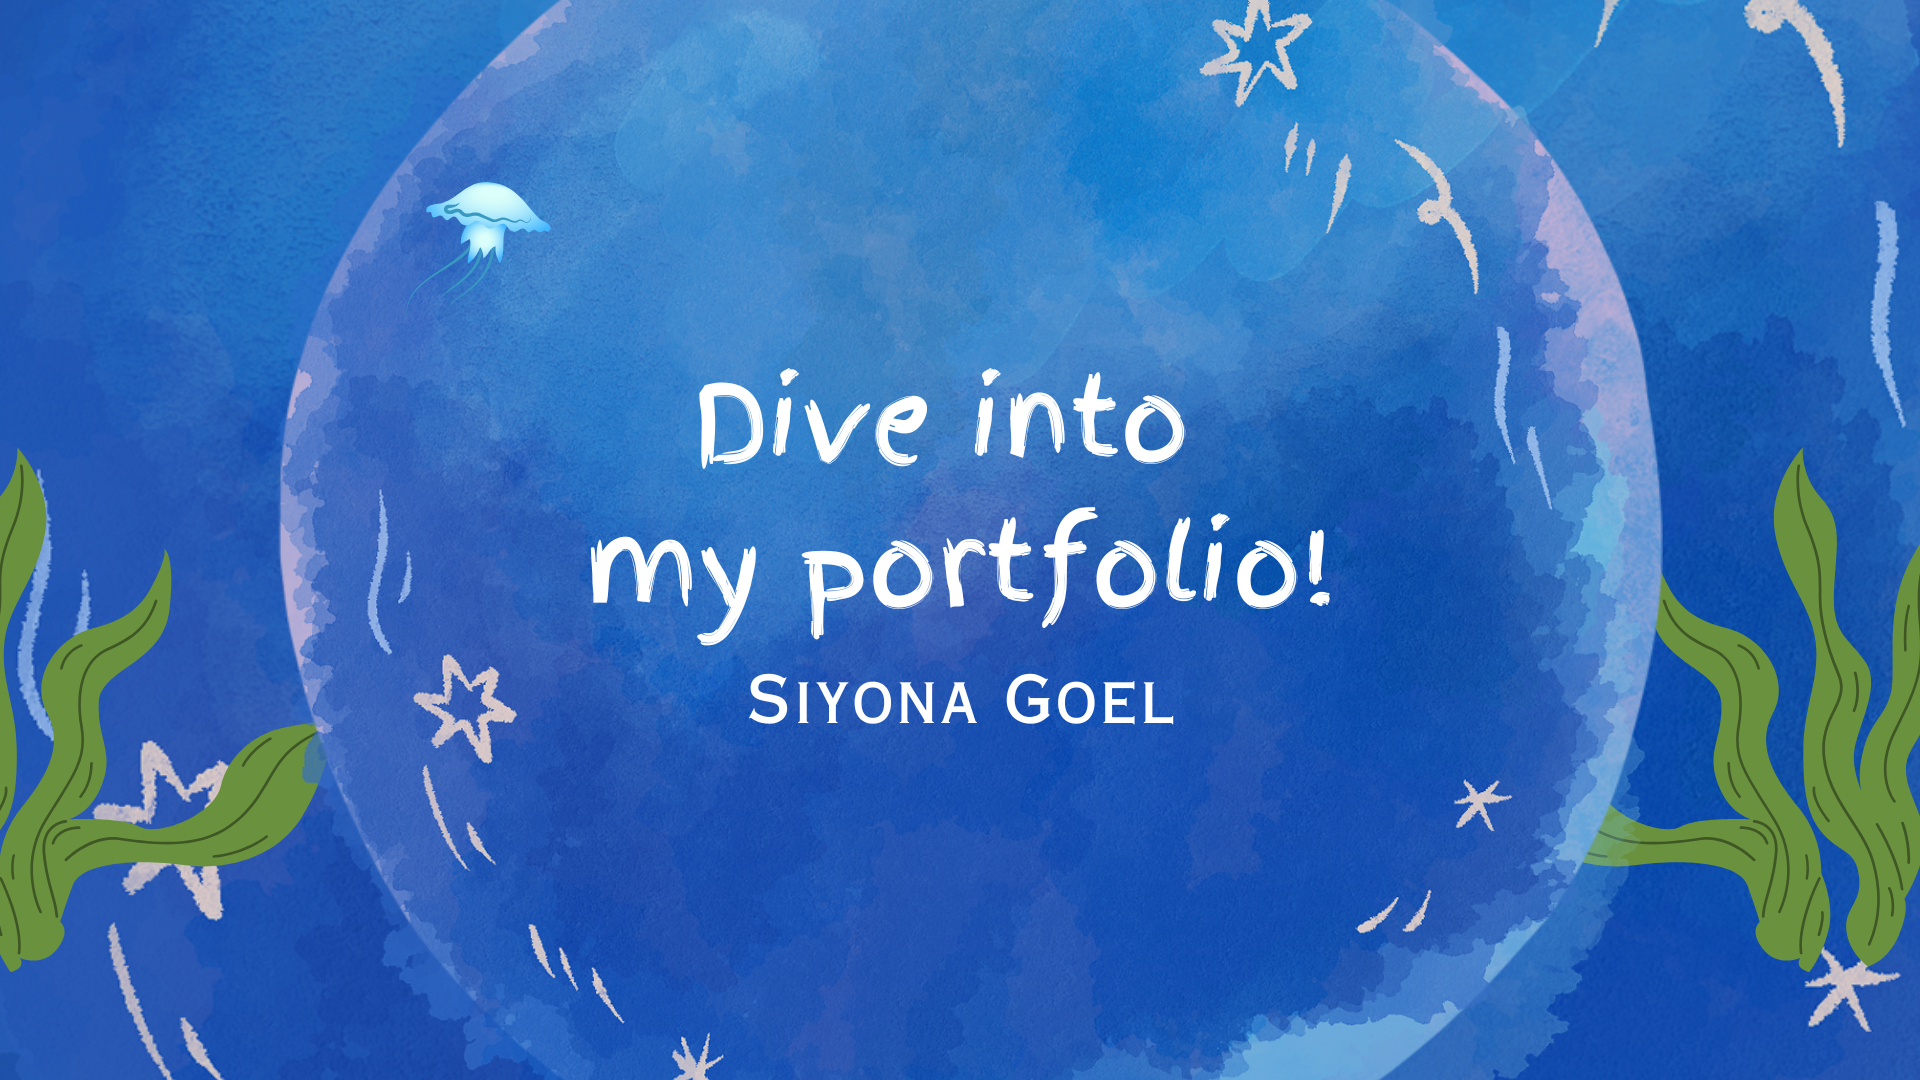
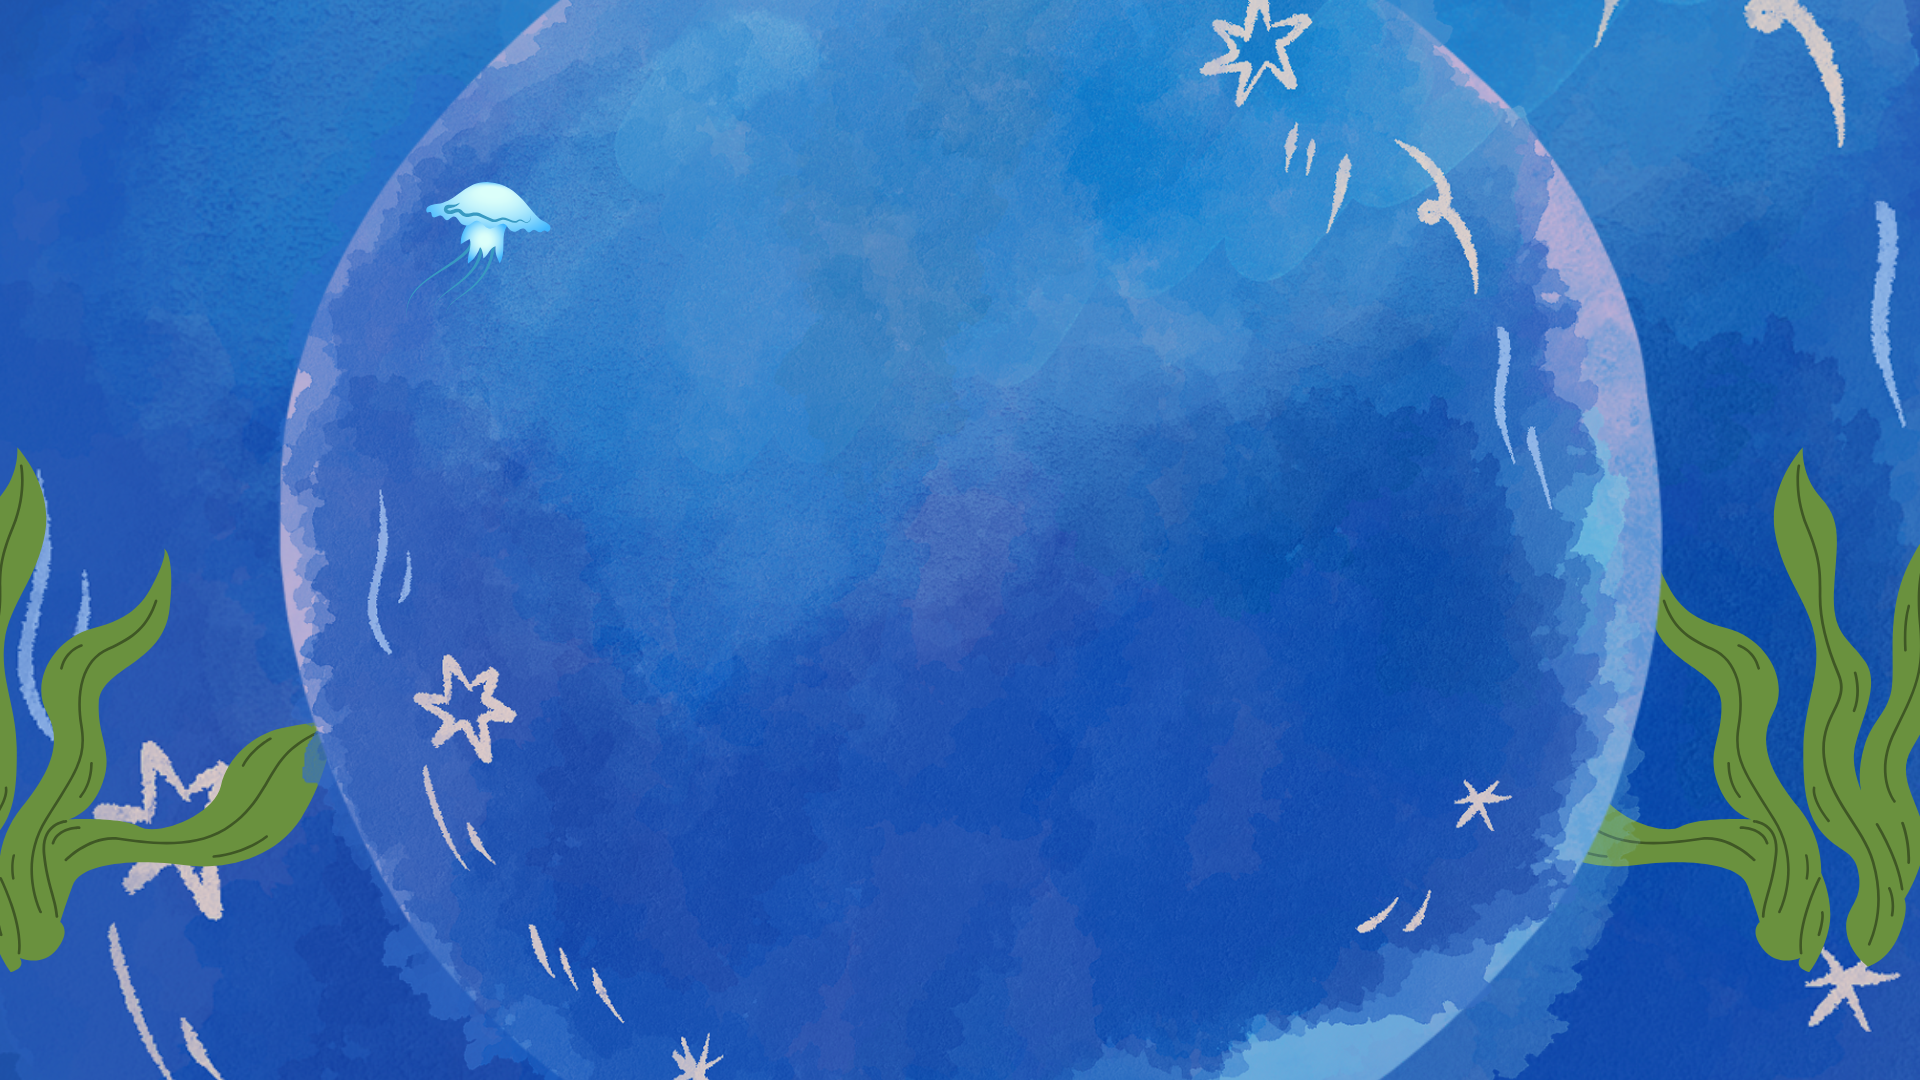
changed a lot

diff --git a/index.html b/index.html
@@ -5,11 +5,13 @@
     <meta name="viewport" content="width=device-width, initial-scale=1.0">
     <title>Dive In!</title>
     <link rel="stylesheet" href="style.css">
+    <link href="https://fonts.googleapis.com/css2?family=Finger+Paint&family=Poltawski+Nowy:ital,wght@0,400..700;1,400..700&family=Poppins:ital,wght@0,100;0,200;0,300;0,400;0,500;0,600;0,700;0,800;0,900;1,100;1,200;1,300;1,400;1,500;1,600;1,700;1,800;1,900&display=swap" rel="stylesheet">
+    <link href="https://fonts.googleapis.com/css2?family=Cinzel:wght@400..900&family=Finger+Paint&family=Poltawski+Nowy:ital,wght@0,400..700;1,400..700&family=Poppins:ital,wght@0,100;0,200;0,300;0,400;0,500;0,600;0,700;0,800;0,900;1,100;1,200;1,300;1,400;1,500;1,600;1,700;1,800;1,900&display=swap" rel="stylesheet">
 </head>
 <body>
     <header>
         <nav class="navbar">
-            <div class="logo">Siyona Goel</div>
+            <a href="index.html" class="logo">Siyona Goel</a>
             <ul class="nav-links">
                 <li><a href="about.html">About</a></li>
                 <li><a href="experience.html">Experience</a></li>
@@ -28,6 +30,10 @@
     <main class="home-container">
         <div class="home-image-container">
             <img src="media/home_page.png" alt="Home Page Background" class="home-image">
+            <div class="home-text">
+                <h1 class="main-heading">Dive into<br>my portfolio!</h1>
+                <p class="sub-heading">Siyona Goel</p>
+            </div>            
             
             <!-- Corner navigation elements -->
             <div class="corner-nav top-left" id="jellyfish-container">

diff --git a/style.css b/style.css
@@ -348,6 +348,8 @@ body {
 }
 
 .logo {
+    font-family: 'Cinzel', serif;
+    text-decoration: none;
     color: #112548;
     font-size: 1.5rem;
     font-weight: bold;
@@ -512,6 +514,29 @@ body {
     }
 }
 
+.home-text {
+    position: absolute;
+    top: 50%;
+    left: 50%;
+    transform: translate(-50%, -50%);
+    text-align: center;
+    color: white;
+    z-index: 2;
+}
+
+.main-heading {
+    font-family: 'Finger Paint', cursive;
+    font-size: 4.5rem;
+    margin: 0;
+}
+
+.sub-heading {
+    font-family: 'Cinzel', serif;
+    font-size: 3rem;
+    margin-top: 1rem;
+}
+
+
 .about-image-container {
     position: absolute;
     top: 0;
@@ -578,6 +603,14 @@ body {
         width: 120px;
         height: 120px;
     }
+
+    .main-heading {
+        font-size: 2.5rem;
+    }
+
+    .sub-heading {
+        font-size: 1.5rem;
+    }
 }
 
 @media screen and (max-width: 480px) {
@@ -605,6 +638,18 @@ body {
     .fish-icon {
         width: 80px;
         height: 80px;
+    }
+
+    .main-heading {
+        font-size: 1.8rem;
+    }
+
+    .sub-heading {
+        font-size: 1.2rem;
+    }
+
+    .home-text {
+        top: 45%; /* Move text slightly lower for better spacing */
     }
 }
 

diff --git a/about.html b/about.html
@@ -5,11 +5,13 @@
     <meta name="viewport" content="width=device-width, initial-scale=1.0">
     <title>About Me!</title>
     <link rel="stylesheet" href="style.css">
+    <link href="https://fonts.googleapis.com/css2?family=Finger+Paint&family=Poltawski+Nowy:ital,wght@0,400..700;1,400..700&family=Poppins:ital,wght@0,100;0,200;0,300;0,400;0,500;0,600;0,700;0,800;0,900;1,100;1,200;1,300;1,400;1,500;1,600;1,700;1,800;1,900&display=swap" rel="stylesheet">
+    <link href="https://fonts.googleapis.com/css2?family=Cinzel:wght@400..900&family=Finger+Paint&family=Poltawski+Nowy:ital,wght@0,400..700;1,400..700&family=Poppins:ital,wght@0,100;0,200;0,300;0,400;0,500;0,600;0,700;0,800;0,900;1,100;1,200;1,300;1,400;1,500;1,600;1,700;1,800;1,900&display=swap" rel="stylesheet">
 </head>
 <body>
     <header>
         <nav class="navbar">
-            <div class="logo">Siyona Goel</div>
+            <a href="index.html" class="logo">Siyona Goel</a>
             <ul class="nav-links">
                 <li><a href="about.html">About</a></li>
                 <li><a href="experience.html">Experience</a></li>
